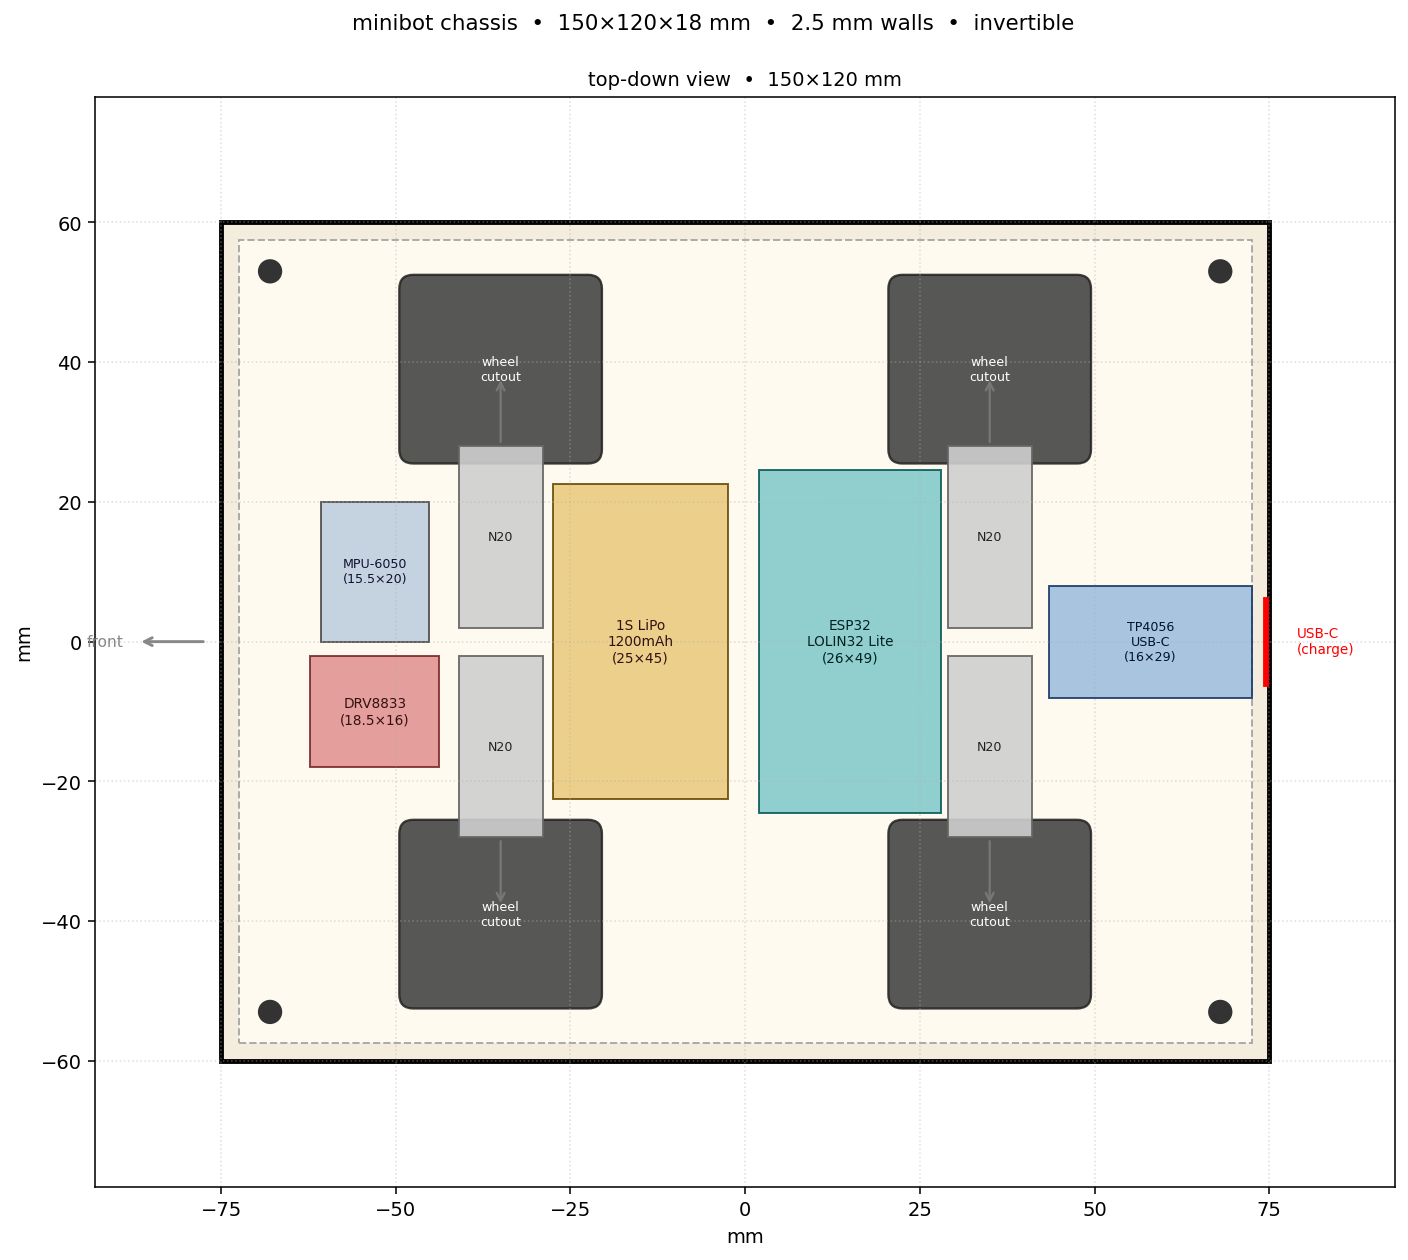
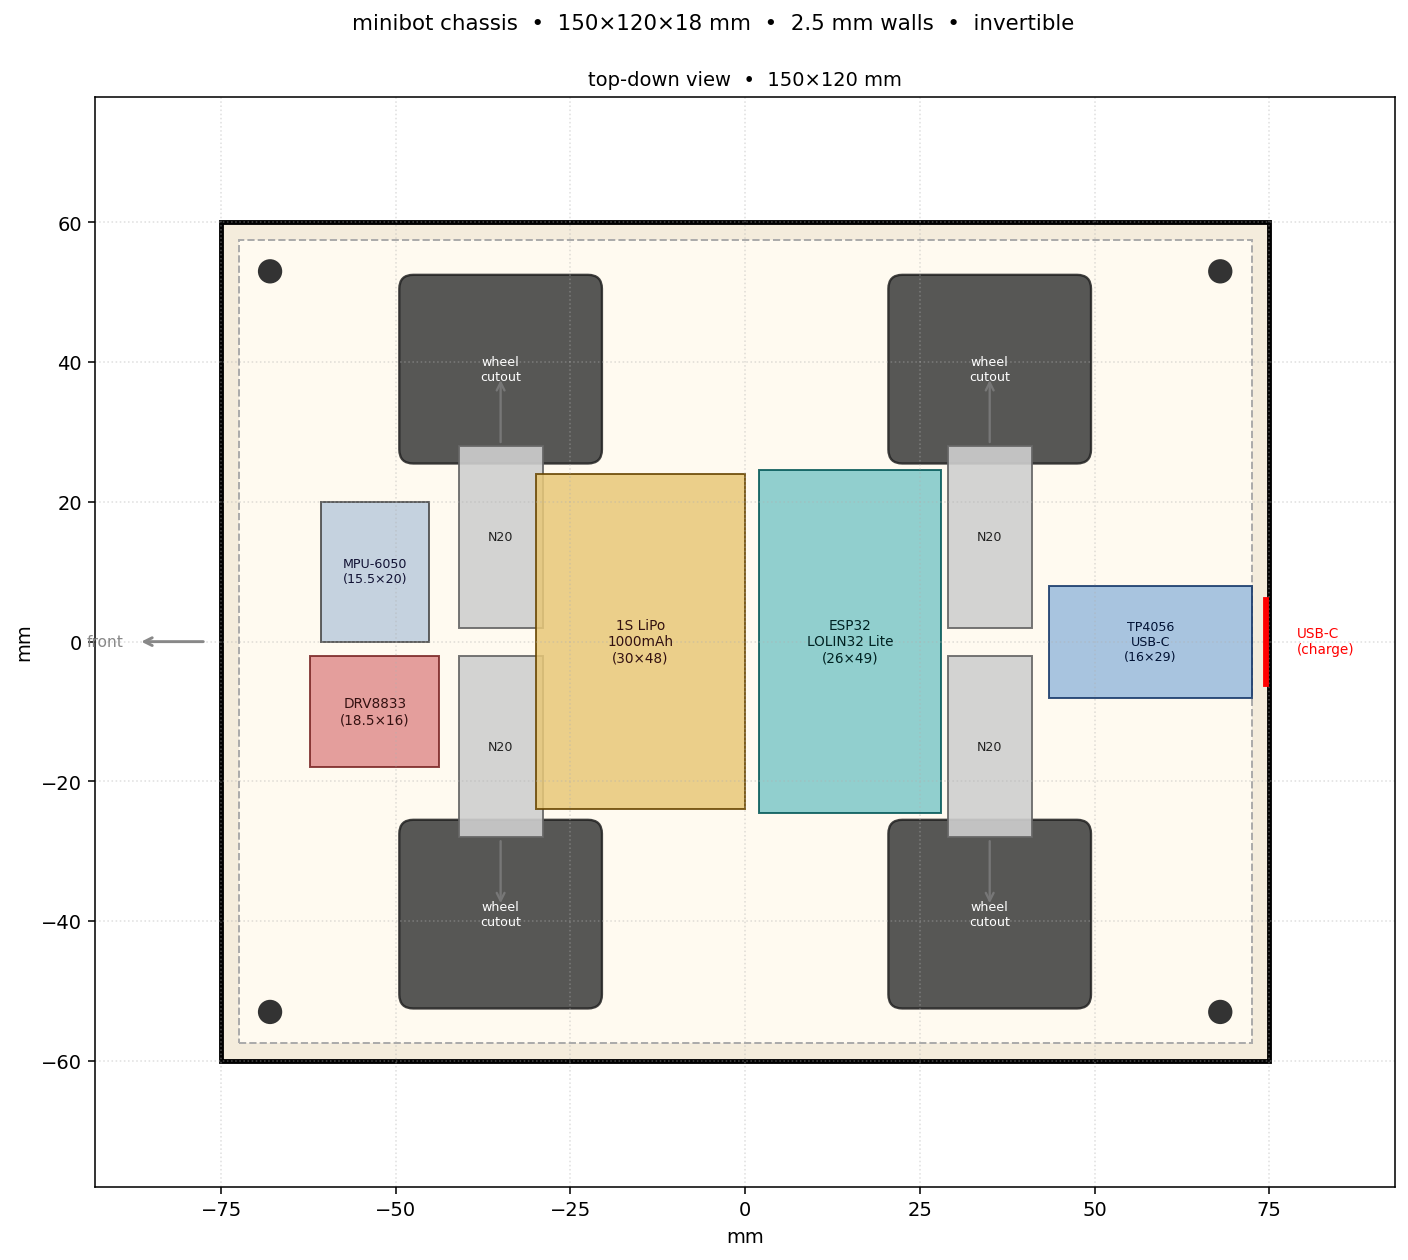
feat: lock in measured 603048 battery (48x30x6, 1000mAh) and fix stale wheel/driver refs

Changed region(s): [[0.375, 0.3714, 0.5312, 0.65]]

diff --git a/docs/cad/layout.py b/docs/cad/layout.py
@@ -35,13 +35,13 @@ wheel_center_y = motor_center_y + motor_length / 2 + wheel_width / 2
 
 esp_length, esp_width = 49, 26
 driver_length, driver_width = 18.5, 16
-battery_length, battery_width = 45, 25
+battery_length, battery_width = 48, 30
 imu_length, imu_width = 20, 15.5
 tp4056_length, tp4056_width = 29, 16
 
 esp_thick = 4         # PCB + components (Z direction)
 driver_thick = 4
-battery_thick = 7
+battery_thick = 6
 imu_thick = 3
 tp4056_thick = 3
 
@@ -145,7 +145,7 @@ def draw_top(ax) -> None:
         battery_width, battery_length,
         linewidth=1, edgecolor="#640", facecolor="#e8c878", alpha=0.85,
     ))
-    ax.text(bat_x, 0, f"1S LiPo\n1200mAh\n({battery_width}×{battery_length})",
+    ax.text(bat_x, 0, f"1S LiPo\n1000mAh\n({battery_width}×{battery_length})",
             ha="center", va="center", fontsize=7, color="#311")
 
     # TP4056

diff --git a/docs/parts.md b/docs/parts.md
@@ -7,12 +7,12 @@ Everything needed to build a minibot from scratch. Prices are rough Euro estimat
 | Qty | Component | Notes | Unit price | Subtotal |
 |---|---|---|---:|---:|
 | 1 | **WeMos LOLIN32 Lite** (ESP32 + CH340 + JST + TP4054) | The brain. Search "LOLIN32 Lite" on AliExpress. | €5–8 | €5–8 |
-| 1 | **DRV8833 dual motor driver breakout** | Pololu-style carrier, ~22 × 17 mm. Drives 2 motors at 1.5 A continuous / 2 A peak per channel. Recommend buying spares. | €1.50 | €1.50 |
+| 1 | **DRV8833 dual motor driver breakout** | Pololu-style carrier, ~18.5 × 16 mm. Drives 2 motors at 1.5 A continuous / 2 A peak per channel. Recommend buying spares. | €1.50 | €1.50 |
 | 4 | **N20 6V 400 RPM micro metal gearmotor**, 20 mm shaft, D-cut | Get them all from one listing so they're matched. Search "N20 6V 400rpm 20mm shaft". | €2.50 | €10 |
-| 4 | **SLT20 33×20 mm wheel**, D-shaft hub | Hub depth ~12–15 mm; matches the 20 mm shaft motor. | €1.80 | €7.20 |
+| 4 | **JS2622 26×22 mm wheel** (rubber tire), D-shaft hub | 26 mm hub OD + rubber band, 22 mm wide. Matches the 20 mm shaft motor. | €1.80 | €7.20 |
 | 1 | **MPU-6050 IMU module** | 6-axis accel + gyro on I²C. Used to detect upside-down and auto-flip drive direction. Spare buying recommended — 5 for ~€1.50 each. | €1.50 | €1.50 |
 | 1 | **TP4056 USB-C charge + DW01A protection board** (the "18650 Type-C" board) | Charges the battery via USB-C and protects against overcharge / overdischarge / overcurrent / short-circuit. OUT+ / OUT- feed the load (replaces the LOLIN32's onboard charger path). | €1–2 | €1.50 |
-| 1 | **1S LiPo 3.7 V 1200 mAh** pouch | <8 mm thick fits the cavity. Wires solder directly to TP4056 B+ / B-. | €6 | €6 |
+| 1 | **1S LiPo 3.7 V 1000 mAh** pouch (603048: 48 × 30 × 6 mm) | 6 mm thick fits the 12 mm cavity easily. Wires solder directly to TP4056 B+ / B-. | €6 | €6 |
 | 1 | **PS3 controller** (DualShock 3, original or SHANWAN clone) | Reuse one you already have. SHANWAN clones are €15–25 new. | €0–20 | €0 |
 | | | | **electronics** | **€33–57** |
 

diff --git a/research.md b/research.md
@@ -36,7 +36,7 @@ Running log of what we learned while building minibot. Updated as we go.
 
 - **Type**: N20 micro metal gear motors, **6V 400 RPM, 20mm shaft** (4×)
 - **Voltage choice**: 6V over 3V because the 3.7V LiPo (4.2V full) overvolts a 3V motor by 23–40%, shortening lifespan and risking thermal failure under stall. Undervolting a 6V motor is harmless — it just runs slower, with more headroom on heat and stall current.
-- **Shaft length**: 20mm to match deep-hub SLT20-style wheels (33×20mm). Standard ~9mm shafts would slip in deep hubs.
+- **Shaft length**: 20mm to match deep-hub wheels (JS2622, 26×22mm). Standard ~9mm shafts would slip in deep hubs.
 - **RPM choice**: 400 RPM was the practical pick from what's actually in stock — ideal would have been 600 RPM for a snappier "speedy" feel, but 400 RPM is still a usable balance of speed and torque. At 3.7V loaded with 33mm wheels: ~1.2 km/h cruise, ~1.4 km/h peak. Future upgrade path: 2S LiPo (7.4V) would push it to ~2.4 km/h.
 - **Visible gear stages identical across all 4** → same gear ratio → same output RPM at same voltage.
 - **Current draw**: ~200 mA cruise, 500–700 mA stall per motor. Paired (2× per side) → 1–1.4 A stall per side — within DRV8833's 1.5 A continuous / 2 A peak window.
@@ -340,7 +340,7 @@ The robot has no fixed top/bottom AND no exposed sides, so external interfaces a
 - [x] Two identical "tray" plates with 3 mm floor + 6 mm half-walls = invertible
 - [x] 4× half-cylinder motor pockets in each plate (motors lie on their side, shaft outward)
 - [x] 4× wheel cutouts through each plate (top + bottom) so the wheel can protrude
-- [x] Electronics recesses: ESP32 (49 × 26 mm), DRV8833 (18.5 × 16 mm), battery (45 × 25 mm), MPU-6050 (20 × 15.5 mm), TP4056 (29 × 16 mm)
+- [x] Electronics recesses: ESP32 (49 × 26 mm), DRV8833 (18.5 × 16 mm), battery (48 × 30 × 6 mm, 603048), MPU-6050 (20 × 15.5 mm), TP4056 (29 × 16 mm)
 - [x] Mounting holes through the corner walls for M2.5 heat-set inserts
 - [x] Front-wall USB slot
 

diff --git a/README.md b/README.md
@@ -12,7 +12,7 @@ A small invertible 4WD ESP32 robot driven by a PS3 controller over Bluetooth.
 - **4× N20 6 V / 400 RPM** gear motors, paired left/right through a single **DRV8833** dual H-bridge
 - **MPU-6050 IMU** for orientation detection — auto-flips drive direction when the bot is upside-down
 - **TP4056 USB-C charge + DW01A protection board** — handles charging, overcharge, overdischarge and short-circuit protection
-- **1S LiPo 3.7 V / 1200 mAh**, ~1 hour of cruising
+- **1S LiPo 3.7 V / 1000 mAh (603048)**, ~1 hour of cruising
 - **3D-printed PETG translucent chassis** — fully enclosed (2.5 mm walls all around), invertible, ~150 × 120 × 18 mm
 
 ## System
@@ -23,7 +23,7 @@ flowchart LR
     IMU[MPU-6050 IMU] -->|I²C<br/>orientation| ESP
     ESP -->|2 PWM pins / side<br/>3.3 V logic| DRV[DRV8833]
     DRV -->|VM rail| MOT[4× N20 motors<br/>2 paired per side]
-    BAT[(1S LiPo<br/>3.7 V / 1200 mAh)] -->|B+ / B-| TP[TP4056<br/>charge + protect]
+    BAT[(1S LiPo<br/>3.7 V / 1000 mAh)] -->|B+ / B-| TP[TP4056<br/>charge + protect]
     TP -->|OUT+ protected VBAT| ESP
     TP -.->|OUT+ to VM| DRV
 ```
@@ -96,10 +96,10 @@ Quick summary — see [`docs/parts.md`](docs/parts.md) for the full list with ve
 | ESP32 LOLIN32 Lite | 1 | €5–8 |
 | DRV8833 breakout | 1 | €1.50 |
 | N20 6 V 400 RPM motor, 20 mm shaft | 4 | €10 |
-| SLT20 33×20 mm wheel | 4 | €7.20 |
+| JS2622 26×22 mm wheel | 4 | €7.20 |
 | MPU-6050 IMU module | 1 | €1.50 |
 | TP4056 USB-C charge + DW01A protection board | 1 | €1–2 |
-| 1S LiPo 1200 mAh | 1 | €6 |
+| 1S LiPo 1000 mAh (603048) | 1 | €6 |
 | PETG translucent (chassis) | ~50 g | €1–2 |
 | M2.5 hardware, wire, heat-shrink | — | €5–8 |
 | PS3 controller (reuse) | 1 | €0–20 |
